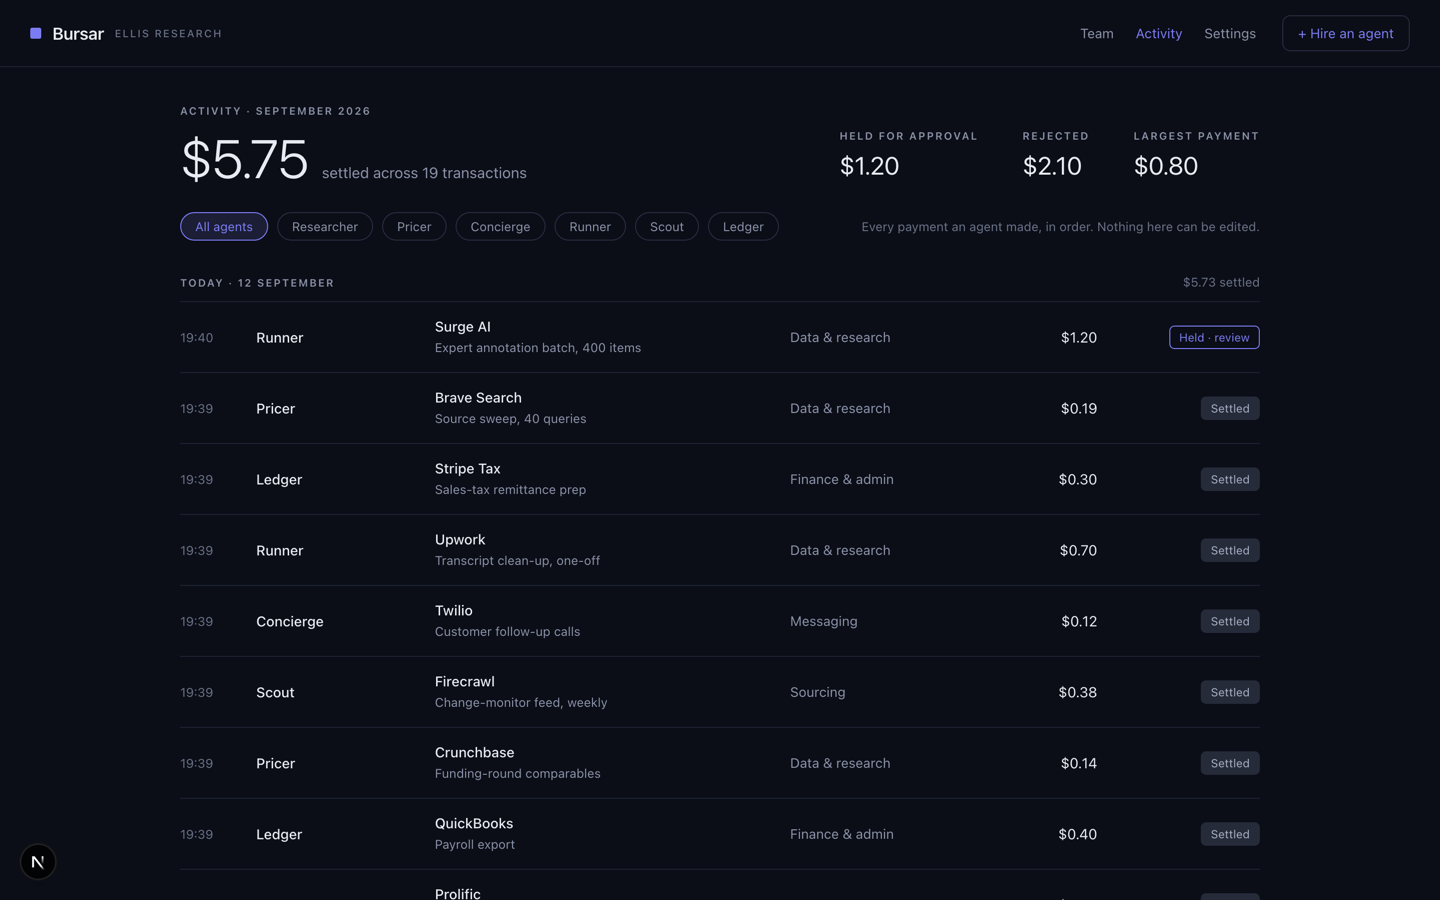
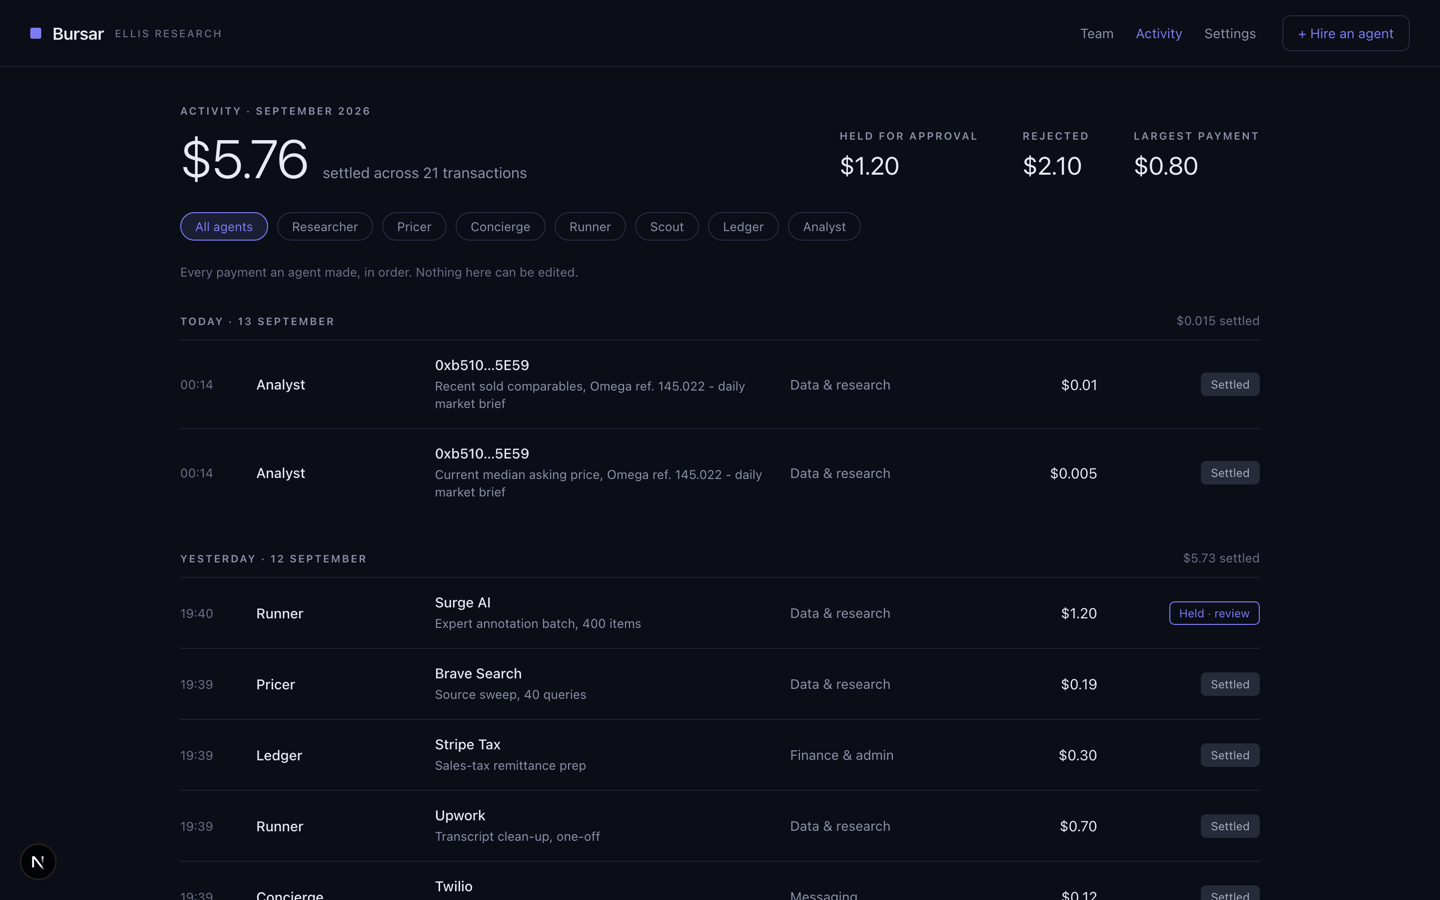
Demo script: hire, then drive that agent from its own Claude session
Beat 3 now runs the agent hired in beat 2 rather than an agent that was
already on the roster, which turns the hire into a payoff instead of a
detour -- "I hired that agent a minute ago and I haven't approved anything
since" is checkable by anyone who just watched it happen.

It opens in Claude, on the new agent's session, and says plainly that the
chat window is this demo's way in rather than the product's only one.

Adds a beat for the activity log between the first payment and the pending
screen, so the held request is found by spotting it in the log rather than
by teleporting to it, and the firing beat now ends there too -- the refusal
and the other agents' payments share one frame, which the roster can't show.

Screenshot re-captured for the exact-amount formatting.

diff --git a/docs/demo/DEMO-3MIN.md b/docs/demo/DEMO-3MIN.md
@@ -4,76 +4,89 @@
 agents, and the entire product is assembled out of things they buy. Today is Thursday — the brief
 ships today.
 
-465 words, ~3:00 at a relaxed pace. `[bracketed]` is what's on screen, not something you say.
+471 words, ~3:00 at a relaxed pace. `[bracketed]` is what's on screen, not something you say.
 
 ---
 
-### 1 · The team — 0:00 → 0:22
+### 1 · The team — 0:00 → 0:20
 
 **[Dashboard, roster overview]**
 
 This is Ellis Research. I sell competitive intelligence on the AI tooling market, and it's me and
 five agents.
 
-This is the whole team on one screen — what each one's spent this month, and what it's still allowed
-to spend. They all draw from one balance, the company account. And notice there's no wallet address
+Here's the whole team on one screen — what each one's spent this month, and what it's still allowed
+to spend. They all draw from one balance, the company account. And there's no wallet address
 anywhere on here. I don't hold a key for any of them.
 
-### 2 · Hiring — 0:22 → 0:55
+### 2 · Hiring — 0:20 → 0:48
 
 **[Hire form → submit → progress row → speed-ramp → the finished row]**
 
 The brief goes out today and I'm still drafting it myself, so let's hire someone for that. A name, a
 role, and two limits — the most it can spend on one purchase, and the most in a month.
 
-When I submit, Bursar spins up a real Claude agent with the payment skill attached. That agent
-boots, generates its own keypair inside its own sandbox, and reports back exactly one thing: an
-address. Bursar registers that address on-chain with the limits I just set. I never see a key.
+When I submit, Bursar spins up a real Claude agent with the payment skill attached. It boots,
+generates its own keypair inside its own sandbox, and reports back one thing: an address. Bursar
+registers that address on-chain with the limits I set. I never see a key.
 
-Takes a minute or two — skipping ahead. And there's Analyst, on the team.
+Takes a minute or two — skipping ahead.
 
-### 3 · It spends on its own — 0:55 → 1:33
+### 3 · Its first job — 0:48 → 1:34
 
-**[An agent pays over x402, feed updates live → cut to ArcScan for ~3s]**
+**[Cut to Claude — Analyst's session. Type the request. Watch it work → back to the feed → ArcScan]**
 
-Now let's watch one work. Scout watches competitor pricing pages, and to do that it has to pay for a
-crawl. It calls the service, gets back a four-oh-two — pay me first — signs for it, and the contract
-checks both limits before any money moves. Inside them, it pays, and the crawl comes back.
+And here it is, in Claude. A real agent with its own session, hired sixty seconds ago.
 
-Nobody asked me anything. I wasn't in that loop at all.
+For this demo I'm talking to it through Claude's own interface, because that's where it lives. In a
+product you'd hand it work however you wanted — a queue, an API, a message in Slack. Today I'll just
+ask.
 
-And here's that exact payment on ArcScan. Settled on Arc, in USDC, gas about a cent. That's the
-ordinary case, a few hundred times a day, and the whole point is that I never see it.
+The brief needs this week's launches. So it goes looking, finds a service that wants paying, and
+gets back a four-oh-two — pay me first. It signs for it, and the contract checks both limits before
+any money moves. Inside them, it pays, and the data comes back.
 
-### 4 · Over the limit — 1:33 → 2:01
+I hired that agent a minute ago and I haven't approved anything since. I wasn't in that loop at all.
 
-**[Banner on the overview → click through to the pending screen]**
+And here's that exact payment on ArcScan. Settled on Arc, in USDC, gas about a cent.
 
-Here's one I do see. Runner's job is buying human work, and the crawlers have flagged pricing pages
-they can't read reliably — so Runner wants to put them in front of expert annotators. That costs
-more than its per-purchase limit allows.
+### 4 · The log — 1:34 → 1:50
 
-Watch — it doesn't go through. It's held. The contract refused it at the moment of payment, and now
-it's sitting on my screen: who asked, how much, what for, and how far over.
+**[Activity page. Scroll a little. Hit an agent filter chip, then clear it.]**
 
-### 5 · I decide — 2:01 → 2:18
+Everything the team buys lands here. The whole morning — every payment, which agent made it, what it
+was for, what it cost.
+
+And none of this is our bookkeeping. It's read straight off the chain, so there's nothing in here I
+could edit. And one payment is still waiting on me.
+
+### 5 · Over the limit — 1:50 → 2:12
+
+**[Click the held row → the pending screen]**
+
+That one's Runner. Its job is buying human work, and the crawlers have flagged pricing pages they
+can't read reliably — so Runner wants to put them in front of expert annotators. That costs more
+than its per-purchase limit allows.
+
+So it didn't go through. It's held. The contract refused it at the moment of payment, and now it's
+sitting on my screen: who asked, how much, what for, and how far over.
+
+### 6 · I decide — 2:12 → 2:24
 
 **[Approve → the release, and the monthly figure moves]**
 
-And that's a call I should be making — it's a judgment about the product, not a routine data pull.
-So I approve. The money's released to Runner, and it counts against Runner's month. That click is
-the signature; there's no second confirmation.
+And that's a call I should be making — a judgment about the product, not a routine data pull. So I
+approve. The money's released to Runner, and it counts against Runner's month. That click is the
+signature; there's no second confirmation.
 
-> **Alternative, if you'd rather not click Approve on camera at all.** Drop this beat, end beat 4
-> with the line below, and give the 17 seconds to the firing beat (which becomes 2:01 → 3:00):
->
-> "...who asked, how much, what for, and how far over. And it stays there until I approve or reject
-> it. Nothing moves until I do."
+> **Alternative, if you'd rather not click Approve on camera at all.** Drop this beat, end beat 5
+> with "…and how far over. And it stays there until I approve or reject it. Nothing moves until I
+> do," and give the 12 seconds to the firing beat.
 
-### 6 · Firing one agent — 2:18 → 3:00
+### 7 · Firing one agent — 2:24 → 3:00
 
-**[Concierge looping → fire it, its row drops off the roster → the refusal, and the others still
-spending]**
+**[Concierge looping → fire it, its row drops off the roster → back to the log: its refusal, and
+the other agents' payments still landing]**
 
 Last one, and it's the one I actually care about. Concierge answers subscriber questions against a
 paid endpoint, and that endpoint is failing — so it's stuck retrying. Every retry costs a fraction
@@ -81,9 +94,9 @@ of a cent, forever. This is the runaway bill everyone's had.
 
 On any other setup I'd be rotating keys right now. Here, I just fire it — and it's off the team.
 
-Next payment it tries — refused, by the contract, with its own error. And look: Scout and Pricer
-both spent in that same block, untouched, because the brief still has to ship today. Firing an agent
-writes one agent's record, so it can't reach the others.
+Next payment it tries — refused, by the contract, with its own error. And look at the log: Scout and
+Pricer are still buying, in the same block, untouched, because the brief still has to ship today.
+Firing an agent writes one agent's record, so it can't reach the others.
 
 That's the difference between a dashboard that watches your agents, and a contract that holds the
 money.
@@ -94,10 +107,17 @@ money.
 
 - The new hire is **Analyst**, role "Drafts the weekly brief", limits $0.30 per purchase / $2 a
   month — in line with the others at testnet scale.
-- Beat 4 says "more than its per-purchase limit allows" rather than naming figures, so it survives
+- Beat 5 says "more than its per-purchase limit allows" rather than naming figures, so it survives
   whatever the seed holds. The live held request is $1.20 against Runner's $0.75.
 - Beat 2 must be speed-ramped. Hold two seconds on the progress row, then cut.
-- Beat 6 is the only place isolation appears. Rehearse it specifically.
+- Beat 3 cuts to Claude and drives the agent from its own session, so have that window ready and
+  signed in before you start. It runs the agent hired in beat 2, so the two have to be shot in order. Analyst buys
+  `/v1/launches` from the seller ($0.006, well inside its $0.30 per-purchase limit) — the service
+  returns the week's launches in a category, which is the raw material for the brief.
+- Beat 7 is the only place isolation appears. Rehearse it specifically — and end it on the activity
+  log rather than the roster, so the refusal and the other agents' payments are in one frame.
+- Beat 4 is the only beat with no state change. Keep the cursor moving: scroll, filter by one agent,
+  clear it. A static screen for eighteen seconds reads as dead air.
 - **Approve works on-chain** — the server action waits for the receipt and the dashboard updates.
   What is *not* guaranteed on camera is the agent then completing its purchase: `POST
   /pending/:id/approve` tries to resume the agent's Claude session afterwards and returns a
